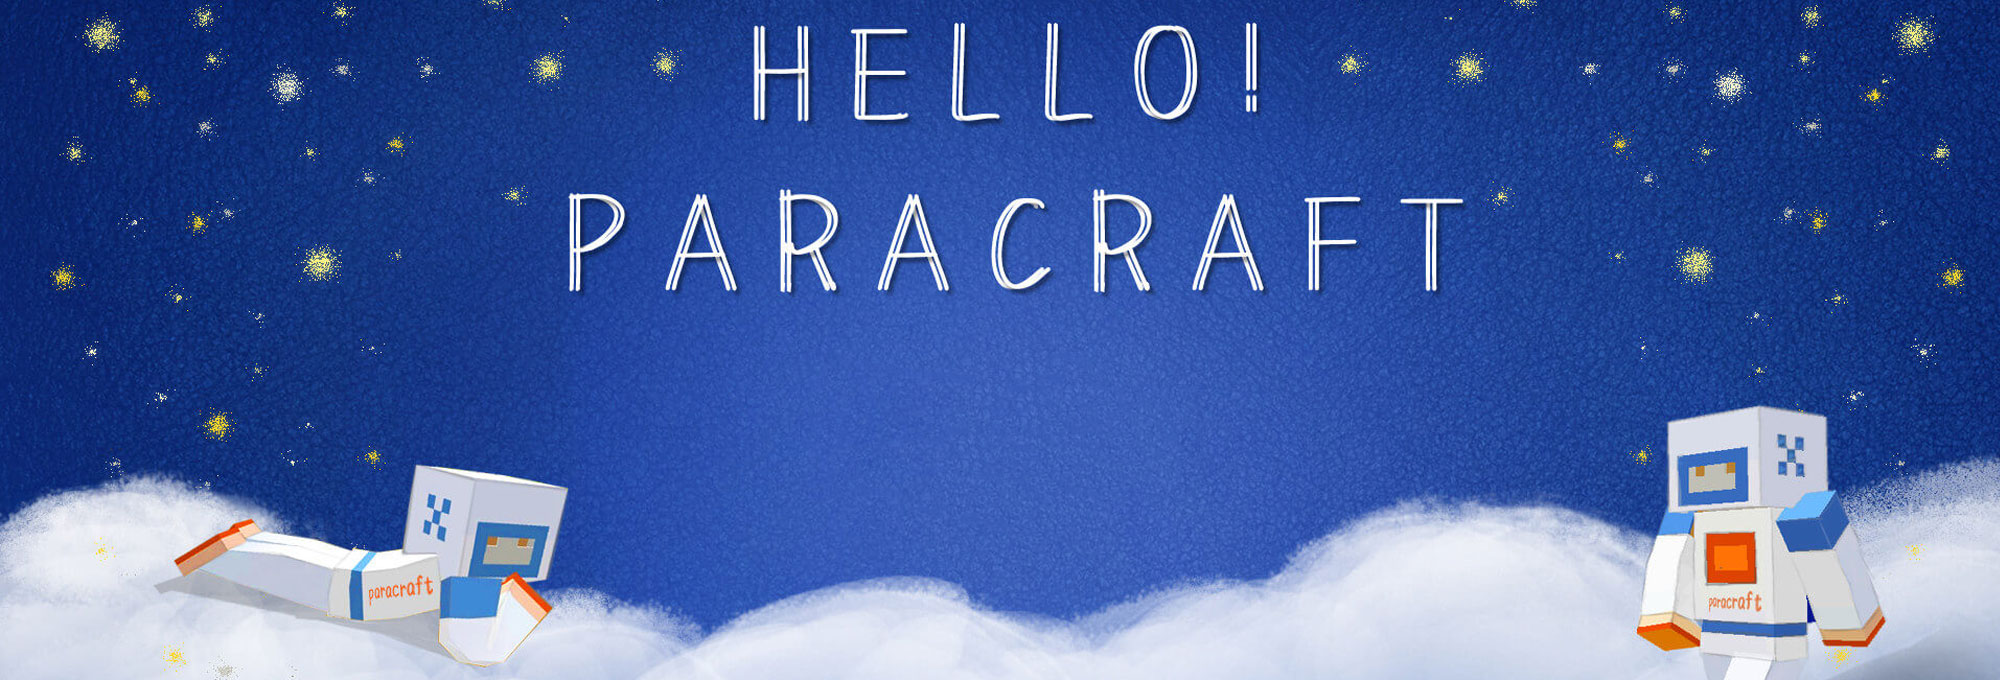
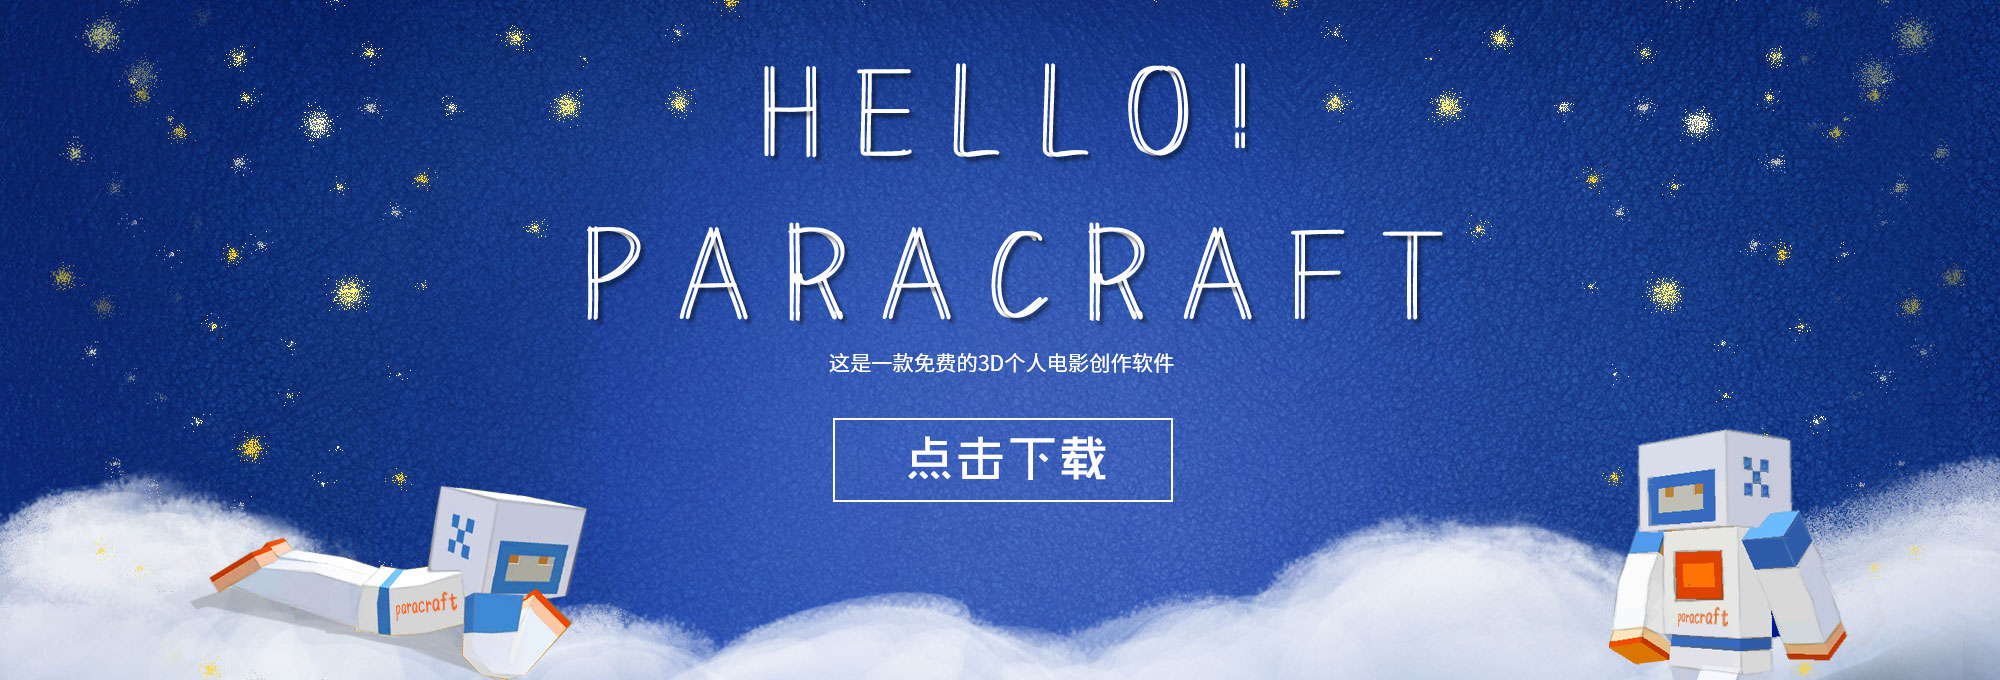
home轮播图片替换；404页面

diff --git a/www/wiki/js/app/controller/mainController.js b/www/wiki/js/app/controller/mainController.js
@@ -12,7 +12,8 @@ define([
     'controller/headerController',
     'controller/footerController',
     'controller/userController',
-], function (app, markdownwiki, storage, util, dataSource, homeHtmlContent, headerHtmlContent, footerHtmlContent, userHtmlContent) {
+    'controller/notfoundController',
+], function (app, markdownwiki, storage, util, dataSource, homeHtmlContent, headerHtmlContent, footerHtmlContent, userHtmlContent, notfoundHtmlContent) {
     var md = markdownwiki({html: true});
 
     app.controller('mainController', ['$scope', '$rootScope', '$location', '$http', '$auth', '$compile', 'Account', 'Message', 'github', 'modal','gitlab',
@@ -158,7 +159,7 @@ define([
                             var currentDataSource = dataSource.getCurrentDataSource();
                             var renderContent = function (content) {
                                 $rootScope.$broadcast('userpageLoaded',{});
-                                content = md.render(content ||  '<div>用户页丢失!!!</div>');
+                                content = md.render(content ||  notfoundHtmlContent);
                                 util.html('#__UserSitePageContent__', content, $scope);
                             };
 

diff --git a/www/wiki/html/home.html b/www/wiki/html/home.html
@@ -385,7 +385,7 @@
                     <img ng-src='{{imgsPath+"wiki_carousel_banner.jpg"}}' alt="PARACRAFT">
                 </div>
                 <div class="item">
-                    <img ng-src='{{imgsPath+"wiki_carousel_banner02.jpg"}}' alt="PARACRAFT">
+                    <a href="http://www.nplproject.com/zh/download/paracraft/latest/paracraft_full.exe"><img ng-src='{{imgsPath+"wiki_carousel_banner02.jpg"}}' alt="PARACRAFT"></a>
                 </div>
             </div>
             <!-- Controls -->

diff --git a/www/wiki/js/app/controller/notfoundController.js b/www/wiki/js/app/controller/notfoundController.js
@@ -1,0 +1,19 @@
+/**
+ * Created by wuxiangan on 2016/12/21.
+ */
+
+define([
+    'app',
+    'helper/util',
+    'helper/storage',
+    'text!html/notfound.html'
+], function (app, util, storage, htmlContent) {
+    app.controller('notfoundController', ['$scope', 'Account','Message', function ($scope, Account, Message) {
+        function init() {
+
+        }
+        $scope.$watch('$viewContentLoaded', init);
+    }]);
+
+    return htmlContent;
+});

diff --git a/www/wiki/html/notfound.html b/www/wiki/html/notfound.html
@@ -1,0 +1,12 @@
+<style>
+    body{
+        background-color: #F4F9FF;
+    }
+    .notfound{
+        text-align: center;
+        padding: 60px 0;
+    }
+</style>
+<div ng-controller="notfoundController" class="notfound">
+    <img ng-src="{{imgsPath+'wiki_404.jpg'}}" alt="">
+</div>
